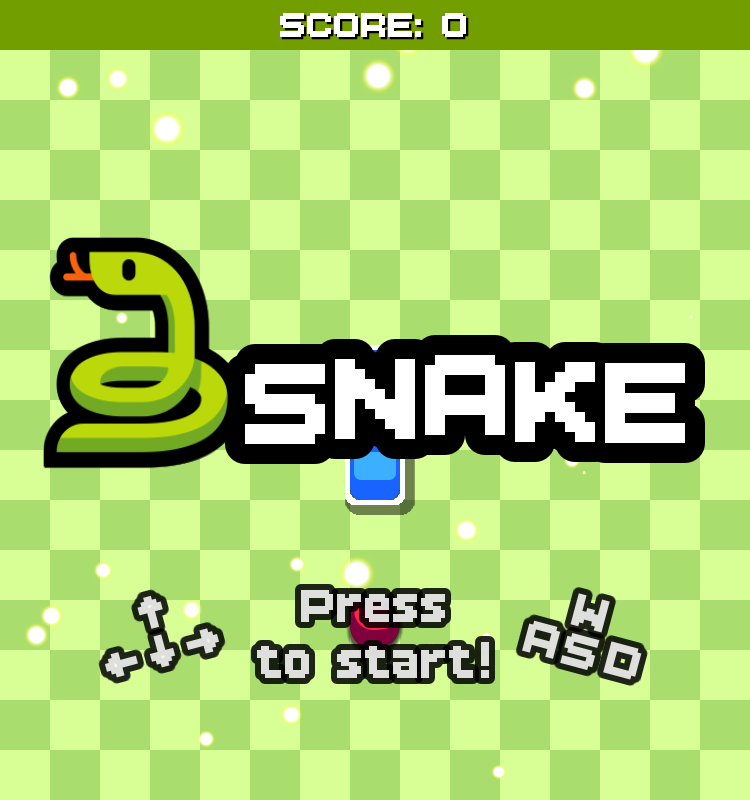
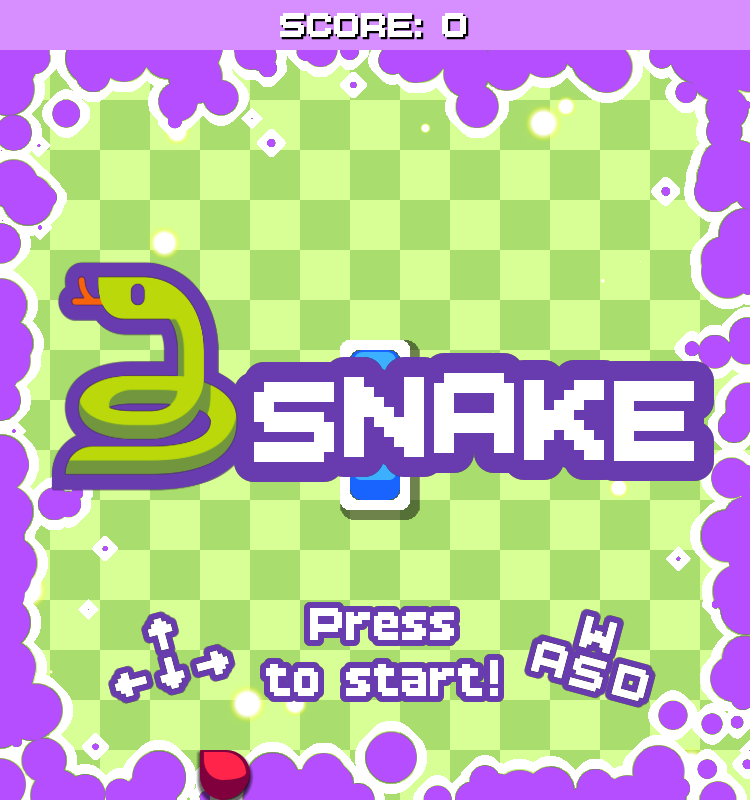
Added particles on borders/danger zone, changed transition and title screen colors, updated README

diff --git a/README.md b/README.md
@@ -38,6 +38,7 @@ Here are credits to third-party assets I've used with their respective licenses.
 - [Simple circle transition](https://godotshaders.com/shader/simple-circle-transition-3/) by [Elephando](https://godotshaders.com/author/elephando/) (CC0 license)
 - [2D outline/inline, configured for sprite sheets](https://godotshaders.com/shader/2d-outline-inline-configured-for-sprite-sheets/) by [juulpower](https://godotshaders.com/author/juulpower/) (CC0 license)
 - [All in one outline shader](https://godotshaders.com/shader/all-in-one-outline-shader/) by [gnamimates](https://godotshaders.com/author/gnamimates/) (CC0 license)
+- [Replace Color](https://godotshaders.com/shader/replace-color/) by [edo0xff](https://godotshaders.com/author/edo0xff/) (CC0 license)
 
 
 ### Icons